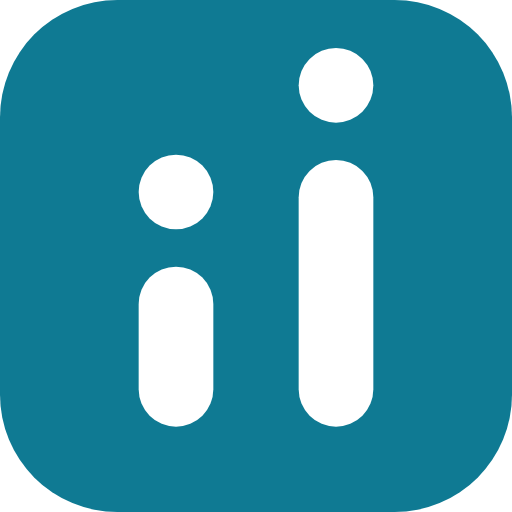
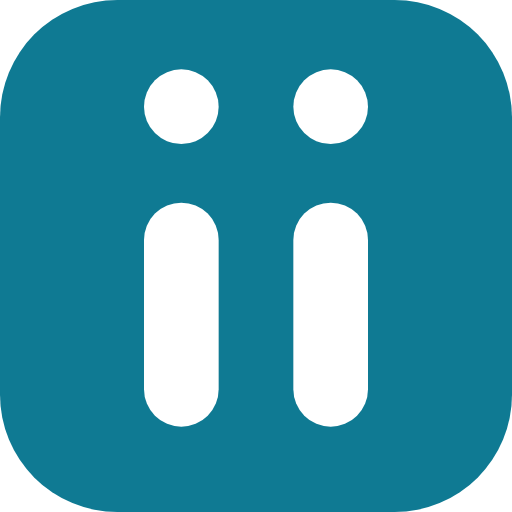
design(utliiz): the two i's stand at the u's height
Wes 2026-09-06: "make the two i's the same height as the U." Both bars
now match the u's stems (54→162 on the 180 grid), dots above; icon to
match. Component and public/ assets updated together.

diff --git a/src/components/hq-white-label/UtliizMark.tsx b/src/components/hq-white-label/UtliizMark.tsx
@@ -1,8 +1,9 @@
 /**
  * The Utliiz wordmark and icon, as inline SVG so they scale and take a
- * colour. The letters are a monoline; the double i is the utilization
- * gauge — two bars stepping up, their dots stepping with them. Static
- * copies live in public/ for emails and favicons.
+ * colour. The letters are a monoline; the double i stands at the u's
+ * height in the accent, its dots above (Wes 2026-09-06: "make the two
+ * i's the same height as the U"). Static copies live in public/ for
+ * emails and favicons.
  */
 
 export function UtliizWordmark({ height = 28, ink = '#0B5C70', accent = '#0F7A93', className }: { height?: number; ink?: string; accent?: string; className?: string }) {
@@ -17,10 +18,10 @@ export function UtliizWordmark({ height = 28, ink = '#0B5C70', accent = '#0F7A93
         <path d="M404 66 H480 L404 150 H480" />
       </g>
       <g fill={accent}>
-        <rect x="292" y="96" width="24" height="66" rx="12" />
-        <circle cx="304" cy="66" r="12" />
-        <rect x="344" y="62" width="24" height="100" rx="12" />
-        <circle cx="356" cy="32" r="12" />
+        <rect x="292" y="54" width="24" height="108" rx="12" />
+        <circle cx="304" cy="24" r="12" />
+        <rect x="344" y="54" width="24" height="108" rx="12" />
+        <circle cx="356" cy="24" r="12" />
       </g>
     </svg>
   )
@@ -31,10 +32,10 @@ export function UtliizIcon({ size = 32, className }: { size?: number; className?
     <svg viewBox="0 0 96 96" width={size} height={size} className={className} role="img" aria-label="Utliiz">
       <rect width="96" height="96" rx="22" fill="#0F7A93" />
       <g fill="#ffffff">
-        <rect x="26" y="50" width="14" height="30" rx="7" />
-        <circle cx="33" cy="36" r="7" />
-        <rect x="56" y="30" width="14" height="50" rx="7" />
-        <circle cx="63" cy="16" r="7" />
+        <rect x="27" y="38" width="14" height="42" rx="7" />
+        <circle cx="34" cy="20" r="7" />
+        <rect x="55" y="38" width="14" height="42" rx="7" />
+        <circle cx="62" cy="20" r="7" />
       </g>
     </svg>
   )
